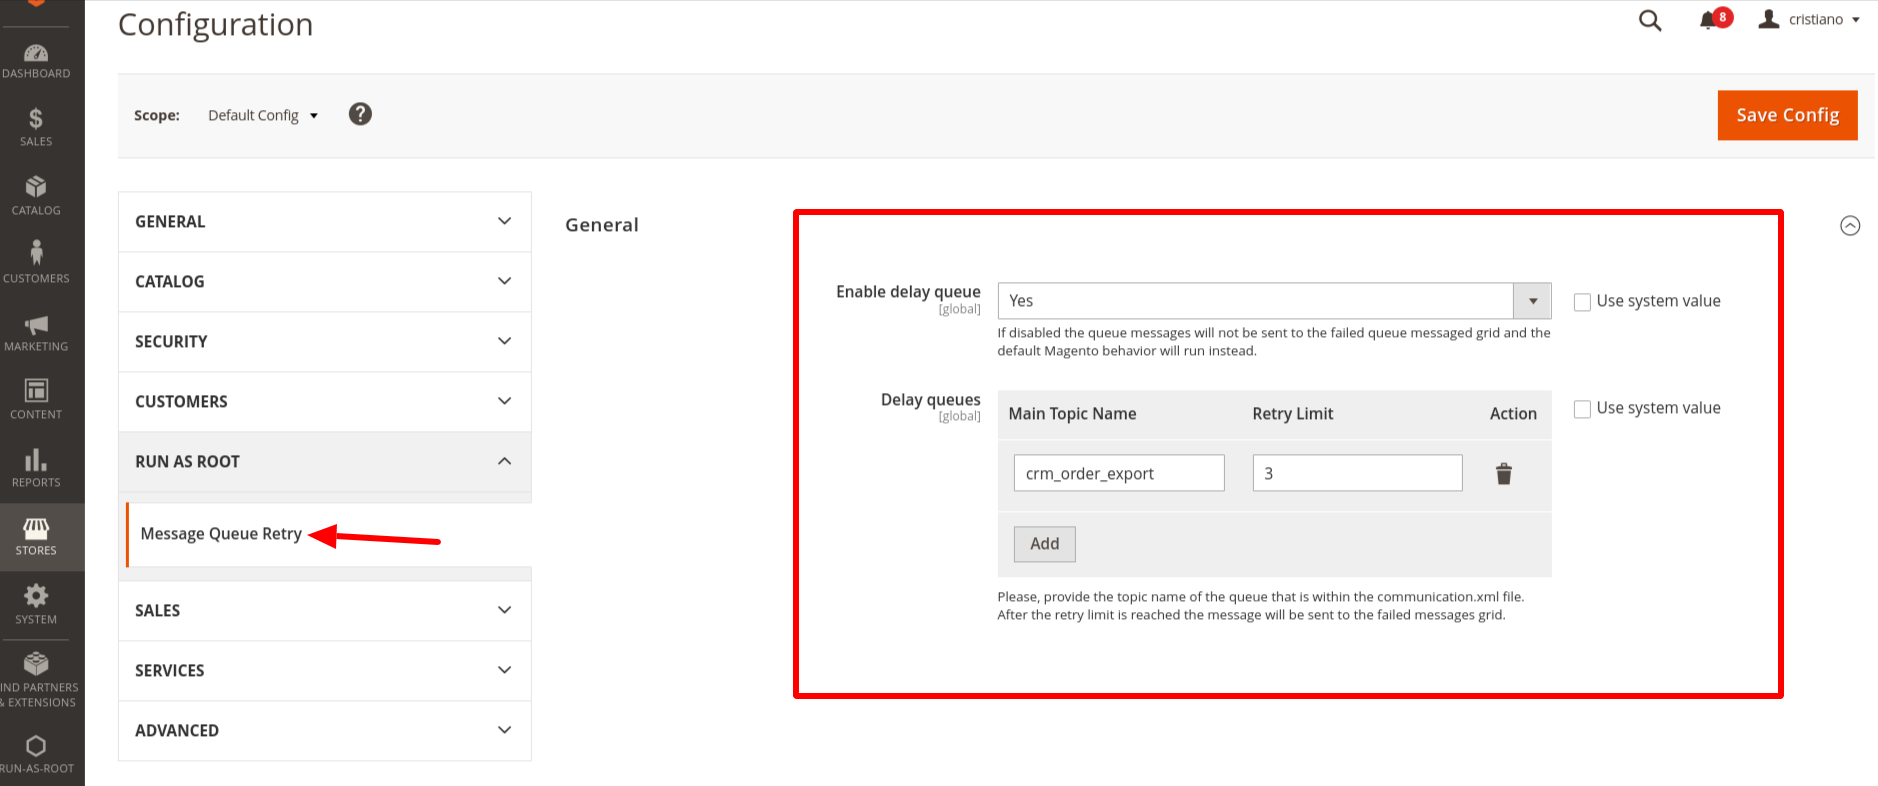
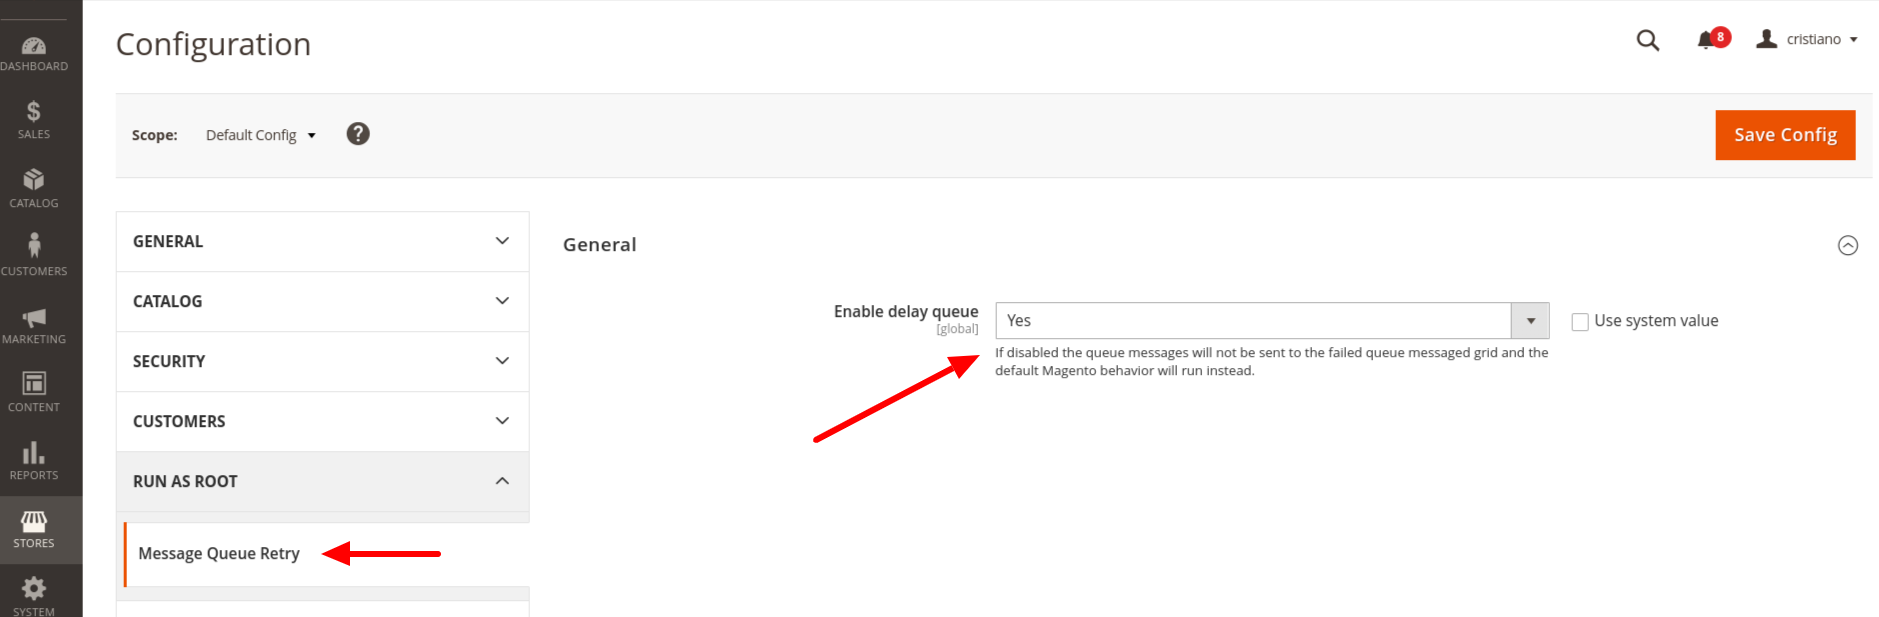
Docs update

diff --git a/README.md b/README.md
@@ -95,7 +95,10 @@ Is possible to configure the ACL for each action in the grid and the module conf
 
 Two steps are necessary to configure the retry for a queue:
 1. Configure the dead letter exchange
-2. Enable the message queue retry and declare the retry limit configuration
+1. Declare the retry limit xml configuration
+1. Enable the message queue retry admin configuration 
+
+#### 1. Configuring the dead letter exchange
 
 Let's imagine a scenario that the `erp_order_export` queue already exists in your project and to simplify the example the topic name, exchange name and queue name are the same: `erp_order_export`.
 
@@ -172,13 +175,29 @@ We added the `erp_order_export_delay` exchange and binding, it points to the ori
 
 The `erp_order_export_delay` queue does not have a consumer, it will be used only to hold(delay) messages according with the period defined in the `x-message-ttl` argument.
 
-Now you have to define toggle the activation for the retry queue module and declare the retry limit for the queue:
+#### 2. Declaring the retry limit xml configuration
+
+Create the `Vendor_ModuleName/etc/queue_retry.xml` file with the content:
+
+```xml
+<?xml version="1.0"?>
+<config xmlns:xsi="http://www.w3.org/2001/XMLSchema-instance"
+        xsi:noNamespaceSchemaLocation="urn:RunAsRoot:module:RunAsRoot_MessageQueueRetry:/etc/queue_retry.xsd">
+    <topic name="erp_order_export" retryLimit="3"/>
+</config>
+```
+
+#### 3. Enabling the message queue retry admin configuration
+
+Now you have to toggle the activation for the retry queue module:
 
 System > Configuration > RUN-AS-ROOT > Message Queue Retry
 
 ![img.png](docs/configuration.png)
 
-**Important note:** Make sure to configure the retry limit of your queue in the module configuration. If you configure the dead letter exchange and do not set the retry limit in the configuration(System > Configuration > RUN-AS-ROOT > Message Queue Retry), the message will be in a retry loop, that is, execute until the consumer process the message without throwing an exception. This is the default behavior for the RabbitMQ dead letter exchange and will work this way even if this module is not installed.
+**Important note:** Make sure to configure the retry limit of your queue with the `queue_retry.xml` file and enable the message queue retry configuration. 
+If you configure the dead letter exchange and not do the steps mentioned, the message will be in a retry loop, that is, execute until the consumer process the message without throwing an exception. 
+This is the default behavior for the RabbitMQ dead letter exchange and will work this way even if this module is not installed.
 
 For more information of how to configure message queues in Magento 2, you can take a look [here](https://developer.adobe.com/commerce/php/development/components/message-queues/configuration/).
 
